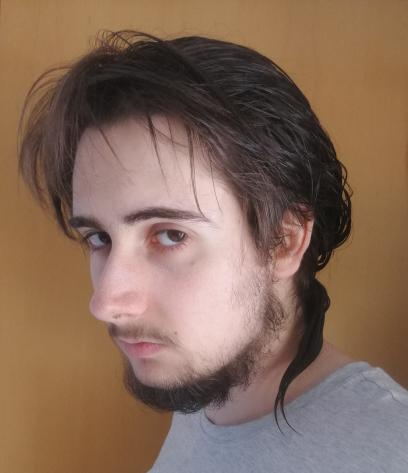
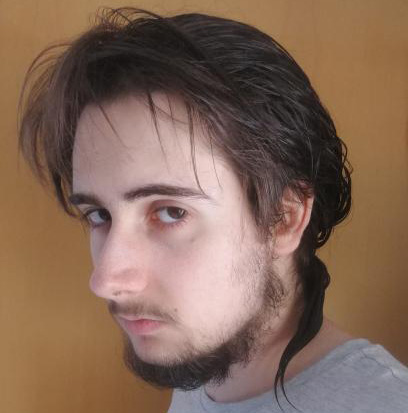
Adjust team pictures so all of them look similar

diff --git a/index.html b/index.html
@@ -164,7 +164,7 @@
       <div class="column-four filterDiv producer">
           <div class="our-team">
               <div class="pic">
-                  <img src="assets/img/team/anonymous.jpg">
+                  <img src="assets/img/team/aaron_guerrero.png">
                   <ul class="social">
                     <li><a href="#" class="fa fa-linkedin"></a></li>
                     <li><a href="#" class="fa fa-github"></a></li>
@@ -332,7 +332,7 @@
               </ul>
           </div>
           <div class="team-content">
-              <h3 class="title">Óscar Pérez</h3>
+              <h3 class="title">Oscar Pérez</h3>
               <span class="post">Code</span>
           </div>
         </div>

diff --git a/assets/css/team_style.css b/assets/css/team_style.css
@@ -24,8 +24,8 @@
 .our-team:hover .pic:before{ top: 0; }
 .our-team:hover .pic:after{ bottom: 0; }
 .our-team .pic img{
-    width: 100%;
-    height: 100%;
+    width: 200px;
+    height: 200px;
     border-radius:50%;
 }
 .our-team .social{
